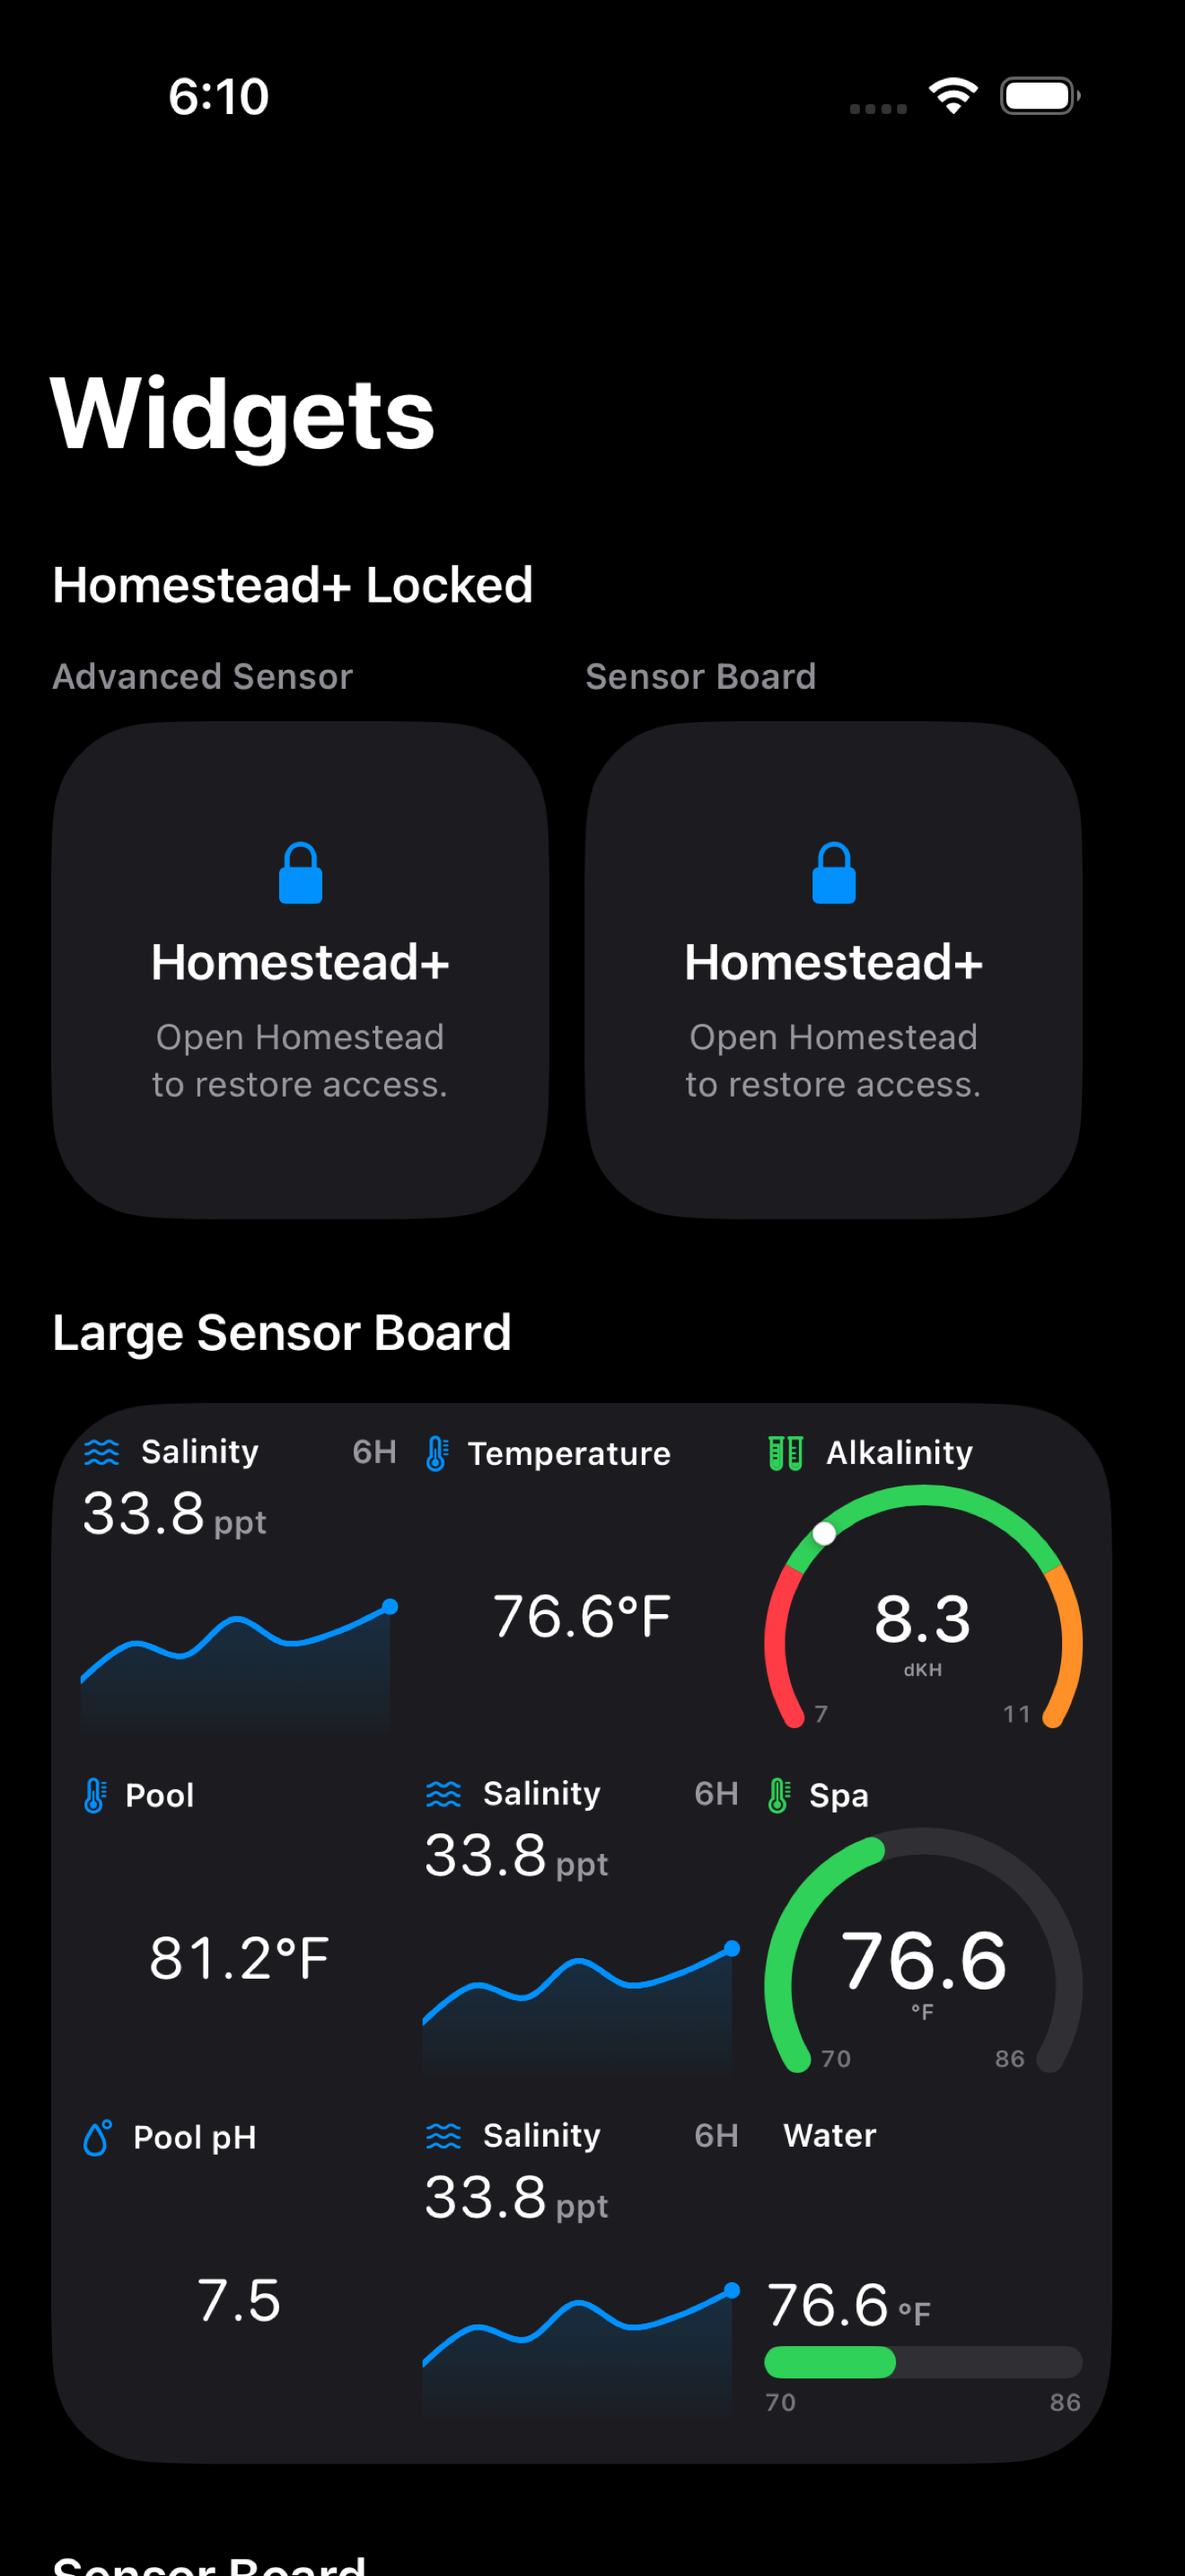
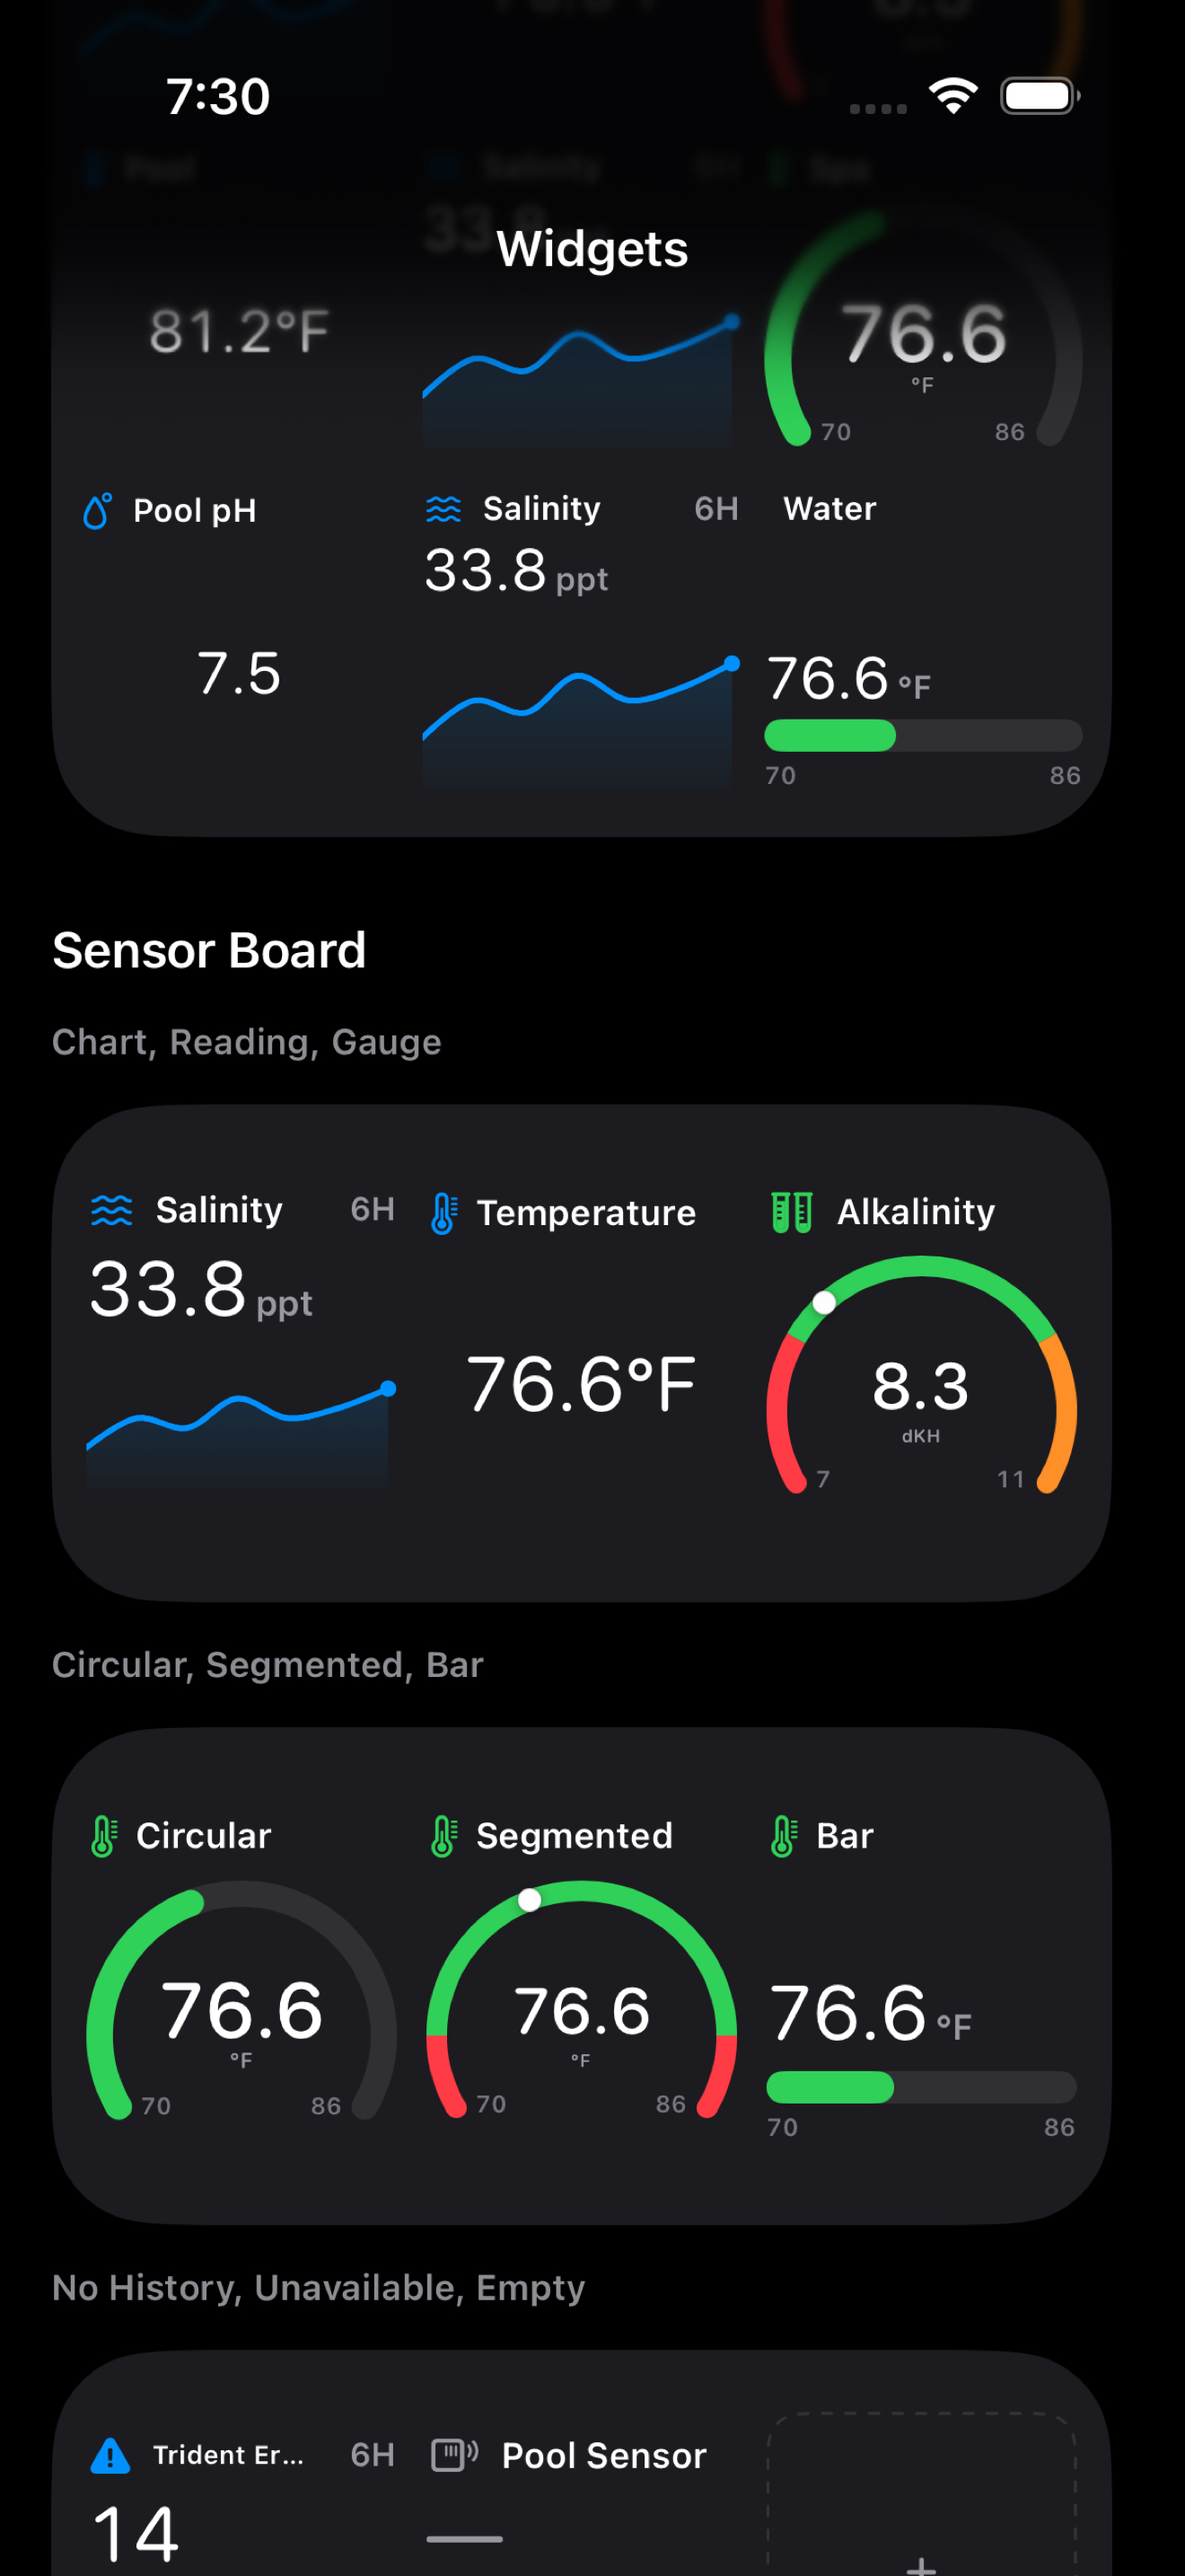
Add polished App Store screenshot set

diff --git a/Scripts/compose_app_store_screenshots.py b/Scripts/compose_app_store_screenshots.py
@@ -1,0 +1,133 @@
+#!/usr/bin/env python3
+"""Compose App Store marketing screenshots from verified simulator captures."""
+
+from pathlib import Path
+
+from PIL import Image, ImageDraw, ImageFilter, ImageFont
+
+
+ROOT = Path(__file__).resolve().parents[1]
+SOURCE = ROOT / "AppStoreAssets" / "Screenshots" / "iPhone-6.9"
+OUTPUT = ROOT / "AppStoreAssets" / "Screenshots" / "iPhone-6.9-Marketing"
+
+CANVAS_SIZE = (1320, 2868)
+PHONE_SIZE = (1010, 2195)
+PHONE_ORIGIN = (155, 610)
+
+HEADLINES = {
+    "01-home.jpg": "Your home,\nbeautifully organized",
+    "02-areas.jpg": "Every room\nat a glance",
+    "03-history.jpg": "Understand\nwhat changed",
+    "04-customize.jpg": "Dashboards\nmade for you",
+    "05-widgets.jpg": "Powerful widgets,\nright where you need them",
+    "06-homestead-plus.jpg": "More home\nwith Homestead+",
+}
+
+
+def font(size: int, bold: bool = False) -> ImageFont.FreeTypeFont:
+    path = (
+        "/System/Library/Fonts/Supplemental/Arial Bold.ttf"
+        if bold
+        else "/System/Library/Fonts/SFNS.ttf"
+    )
+    return ImageFont.truetype(path, size=size)
+
+
+def vertical_gradient() -> Image.Image:
+    width, height = CANVAS_SIZE
+    image = Image.new("RGB", CANVAS_SIZE)
+    pixels = image.load()
+    top = (11, 24, 43)
+    bottom = (2, 7, 14)
+    for y in range(height):
+        progress = y / (height - 1)
+        eased = progress ** 0.82
+        color = tuple(round(a + (b - a) * eased) for a, b in zip(top, bottom))
+        for x in range(width):
+            pixels[x, y] = color
+    return image
+
+
+def rounded_phone(source: Image.Image) -> tuple[Image.Image, Image.Image]:
+    fitted = source.resize(PHONE_SIZE, Image.Resampling.LANCZOS).convert("RGB")
+    mask = Image.new("L", PHONE_SIZE, 0)
+    ImageDraw.Draw(mask).rounded_rectangle(
+        (0, 0, PHONE_SIZE[0] - 1, PHONE_SIZE[1] - 1),
+        radius=86,
+        fill=255,
+    )
+    return fitted, mask
+
+
+def draw_centered_multiline(
+    draw: ImageDraw.ImageDraw,
+    text: str,
+    y: int,
+    text_font: ImageFont.FreeTypeFont,
+) -> None:
+    spacing = 4
+    box = draw.multiline_textbbox((0, 0), text, font=text_font, spacing=spacing, align="center")
+    width = box[2] - box[0]
+    draw.multiline_text(
+        ((CANVAS_SIZE[0] - width) / 2, y),
+        text,
+        font=text_font,
+        fill=(250, 252, 255),
+        spacing=spacing,
+        align="center",
+    )
+
+
+def compose(source_path: Path, output_path: Path, headline: str) -> None:
+    canvas = vertical_gradient()
+    draw = ImageDraw.Draw(canvas)
+
+    kicker_font = font(30, bold=True)
+    headline_font = font(88, bold=True)
+
+    kicker = "HOMESTEAD"
+    kicker_box = draw.textbbox((0, 0), kicker, font=kicker_font)
+    kicker_width = kicker_box[2] - kicker_box[0]
+    draw.text(
+        ((CANVAS_SIZE[0] - kicker_width) / 2, 108),
+        kicker,
+        font=kicker_font,
+        fill=(74, 169, 255),
+    )
+    draw.rounded_rectangle((620, 170, 700, 180), radius=5, fill=(74, 169, 255))
+    draw_centered_multiline(draw, headline, 214, headline_font)
+
+    phone, phone_mask = rounded_phone(Image.open(source_path))
+
+    shadow = Image.new("RGBA", CANVAS_SIZE, (0, 0, 0, 0))
+    shadow_draw = ImageDraw.Draw(shadow)
+    x, y = PHONE_ORIGIN
+    shadow_draw.rounded_rectangle(
+        (x - 18, y + 12, x + PHONE_SIZE[0] + 18, y + PHONE_SIZE[1] + 42),
+        radius=104,
+        fill=(0, 0, 0, 190),
+    )
+    shadow = shadow.filter(ImageFilter.GaussianBlur(34))
+    canvas = Image.alpha_composite(canvas.convert("RGBA"), shadow)
+    canvas.paste(phone.convert("RGBA"), PHONE_ORIGIN, phone_mask)
+
+    frame = ImageDraw.Draw(canvas)
+    frame.rounded_rectangle(
+        (x - 3, y - 3, x + PHONE_SIZE[0] + 3, y + PHONE_SIZE[1] + 3),
+        radius=90,
+        outline=(255, 255, 255, 44),
+        width=6,
+    )
+
+    output_path.parent.mkdir(parents=True, exist_ok=True)
+    canvas.convert("RGB").save(output_path, quality=96, subsampling=0)
+
+
+def main() -> None:
+    for filename, headline in HEADLINES.items():
+        compose(SOURCE / filename, OUTPUT / filename, headline)
+        print(OUTPUT / filename)
+
+
+if __name__ == "__main__":
+    main()

diff --git a/AppStoreAssets/Screenshots/README.md b/AppStoreAssets/Screenshots/README.md
@@ -1,0 +1,28 @@
+# App Store Screenshots
+
+## Recommended Upload Set
+
+Upload `iPhone-6.9-Marketing` in filename order:
+
+1. `01-home.jpg` — Your home, beautifully organized
+2. `02-areas.jpg` — Every room at a glance
+3. `03-history.jpg` — Understand what changed
+4. `04-customize.jpg` — Dashboards made for you
+5. `05-widgets.jpg` — Powerful widgets, right where you need them
+6. `06-homestead-plus.jpg` — More home with Homestead+
+
+Each file is a `1320 x 2868` JPEG without an alpha channel. The first three communicate the core product before the customization and paid-feature story.
+
+## Source Set
+
+`iPhone-6.9` contains clean simulator captures at the same accepted dimensions. Keep these as the fallback if App Review requests screenshots without headline treatments.
+
+## Regeneration
+
+Run the composer with the bundled Codex Python runtime or any Python environment that provides Pillow:
+
+```sh
+python3 Scripts/compose_app_store_screenshots.py
+```
+
+The composer preserves the source UI and only adds the background, headline, framing, and shadow.

diff --git a/Docs/releases/AppStoreSubmission1.0.md b/Docs/releases/AppStoreSubmission1.0.md
@@ -177,9 +177,10 @@ Use fictional, coherent sample-home data. Do not include personal names, real ca
 ## Screenshot Assets Prepared
 
 - Six clean iPhone 6.9-inch launch candidates are stored in `AppStoreAssets/Screenshots/iPhone-6.9` at `1320 x 2868`, JPEG, without alpha.
+- Six polished headline composites are stored in `AppStoreAssets/Screenshots/iPhone-6.9-Marketing` with the same accepted dimensions and format; this is the recommended upload set.
 - The ordered story covers the full Dashboard, Areas, sensor History, card customization, widgets, and Homestead+.
 - Screenshot-only person fixtures use the fictional name `Alex`; the user's real name no longer appears in the launch candidates.
-- These are clean UI assets. A marketing-composite variant with short headlines can be created after the clean set is approved.
+- The clean set remains available as a fallback, and `Scripts/compose_app_store_screenshots.py` reproducibly regenerates the marketing set without altering the captured app UI.
 
 ## Public Website Completed
 
